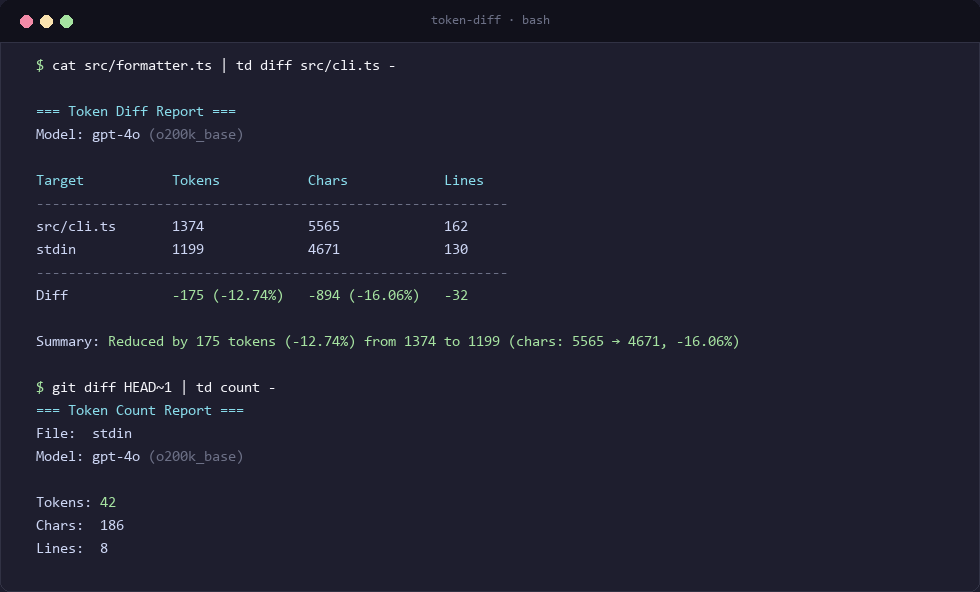
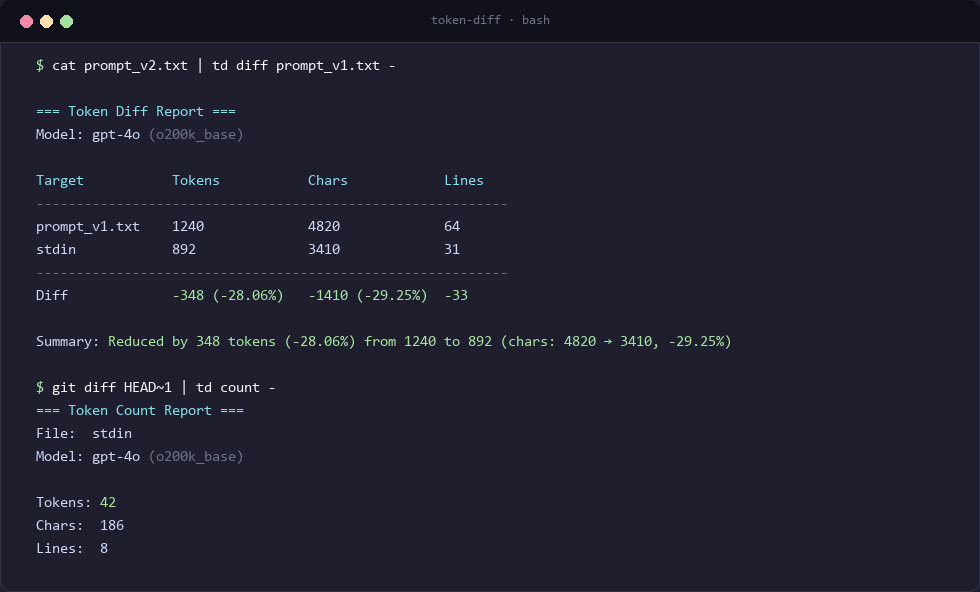
fix(assets): update demo CLI visuals to use prompt_v1 and prompt_v2 instead of unrelated source files

diff --git a/web/src/components/sections/CliDemoSection.tsx b/web/src/components/sections/CliDemoSection.tsx
@@ -17,7 +17,7 @@ export function CliDemoSection({ lang }: CliDemoSectionProps) {
   const demoItems = {
     diff: {
       label: t.cliTabDiff,
-      cmd: 'token-diff prompt_v1.txt prompt_v2.txt --model gpt-4o',
+      cmd: 'td diff prompt_v1.txt prompt_v2.txt',
       imageSrc: '/demo-diff.png',
       alt: 'CLI Diff Mode',
       desc:
@@ -27,7 +27,7 @@ export function CliDemoSection({ lang }: CliDemoSectionProps) {
     },
     count: {
       label: t.cliTabCount,
-      cmd: 'token-diff count "Analyze this codebase architecture" --model gpt-4o',
+      cmd: 'td count README.md',
       imageSrc: '/demo-count.png',
       alt: 'CLI Count Mode',
       desc:
@@ -37,7 +37,7 @@ export function CliDemoSection({ lang }: CliDemoSectionProps) {
     },
     stdin: {
       label: t.cliTabStdin,
-      cmd: 'cat system_prompt.txt | token-diff stdin --model cl100k_base',
+      cmd: 'cat prompt_v2.txt | td diff prompt_v1.txt -',
       imageSrc: '/demo-stdin.png',
       alt: 'CLI Stdin Unix Pipeline',
       desc:
@@ -47,7 +47,7 @@ export function CliDemoSection({ lang }: CliDemoSectionProps) {
     },
     json: {
       label: t.cliTabJson,
-      cmd: 'token-diff prompt_v1.txt prompt_v2.txt --json',
+      cmd: 'td diff prompt_v1.txt prompt_v2.txt --json',
       imageSrc: '/json-mode.png',
       alt: 'CLI JSON Envelope Mode',
       desc:

diff --git a/README.vi.md b/README.vi.md
@@ -125,10 +125,10 @@ td diff [tùy_chọn] <before> <after>
 
 #### Cơ chế nhận diện đầu vào thông minh (Smart Input)
 `token-diff` tự động phân biệt xem tham số `<before>` và `<after>` là đường dẫn tệp hay là chuỗi văn bản (prompt):
-- **So sánh 2 tệp TypeScript**: `td diff formatter.ts formatter.v2.ts`
+- **So sánh 2 tệp văn bản/prompt**: `td diff prompt_v1.txt prompt_v2.txt`
 - **So sánh 2 đoạn prompt trực tiếp**: `td diff "Hãy viết một hàm python tính fibonacci" "Viết python fibonacci"`
 - **So sánh giữa tệp và prompt thô**: `td diff base_prompt.txt "Viết ngắn gọn súc tích"`
-- **Nhận luồng dữ liệu từ pipe (`-`)**: `cat prompt_moi.txt | td diff prompt_cu.txt -`
+- **Nhận luồng dữ liệu từ pipe (`-`)**: `cat prompt_v2.txt | td diff prompt_v1.txt -`
 
 > **Lưu ý**: Nếu đường dẫn không tồn tại trên máy, công cụ sẽ tự động coi đó là chuỗi prompt thô và in kèm một cảnh báo nhẹ `[WARN]` ra terminal để bạn không bị nhầm lẫn khi gõ sai tên tệp.
 

diff --git a/README.md b/README.md
@@ -127,10 +127,10 @@ td diff [options] <before> <after>
 
 #### Smart Input Detection (Files or Raw Strings)
 `token-diff` automatically detects whether `<before>` and `<after>` are file paths or raw text strings:
-- **File vs File**: `td diff formatter.ts formatter.v2.ts`
+- **File vs File**: `td diff prompt_v1.txt prompt_v2.txt`
 - **Raw String vs Raw String**: `td diff "Please write a python function to calculate fibonacci" "Write python fibonacci"`
 - **File vs Raw String**: `td diff base_system_prompt.txt "You are a concise code assistant."`
-- **Standard Input (`-`)**: `cat new_prompt.txt | td diff old_prompt.txt -`
+- **Standard Input (`-`)**: `cat prompt_v2.txt | td diff prompt_v1.txt -`
 
 > **Note**: If an input does not exist on disk, `token-diff` seamlessly falls back to treating it as raw text and displays a subtle `[WARN]` to prevent mistyped filename errors.
 
